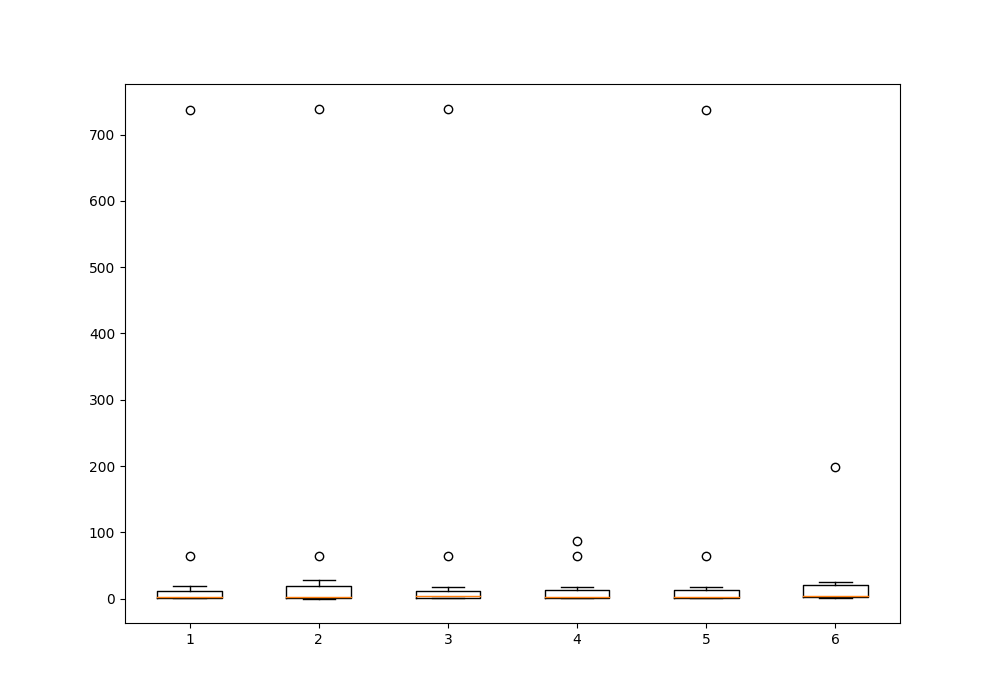
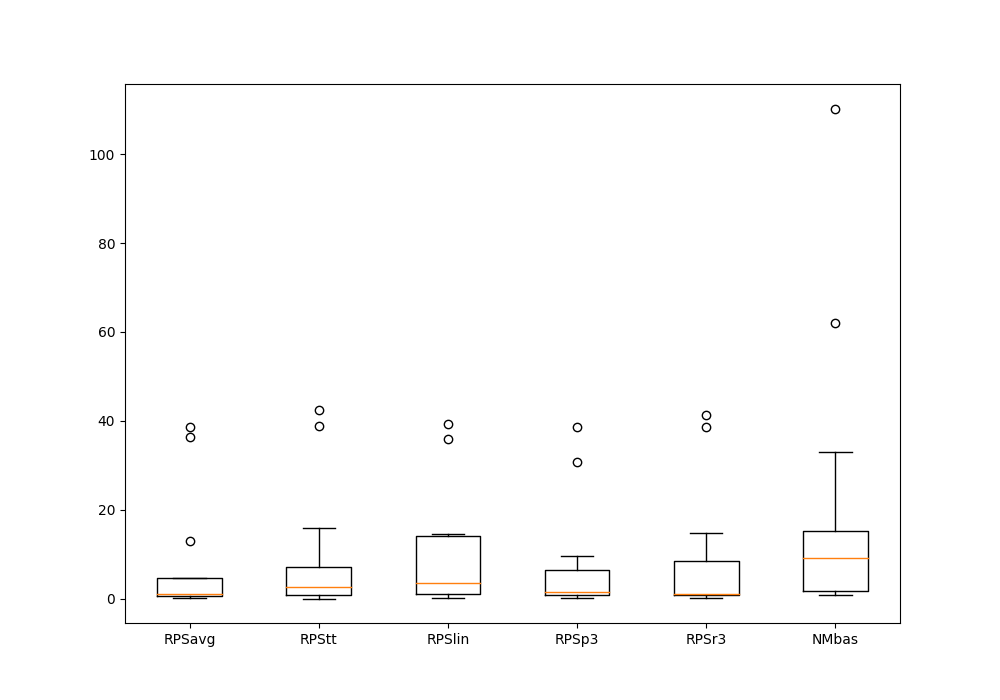
Adicionar legenda ao boxplot

diff --git a/teste.py b/teste.py
@@ -134,9 +134,11 @@ for m in data:
     print(m)
 
 fig = plt.figure(figsize =(10, 7))
- 
+
 # Creating plot
 plt.boxplot(data)
+metodos = ['RPSavg', 'RPStt', 'RPSlin', 'RPSp3', 'RPSr3', 'NMbas']
+plt.xticks([i for i in range(1, len(metodos)+1)], metodos)
  
 # show plot
 plt.savefig("resultado.pdf")
